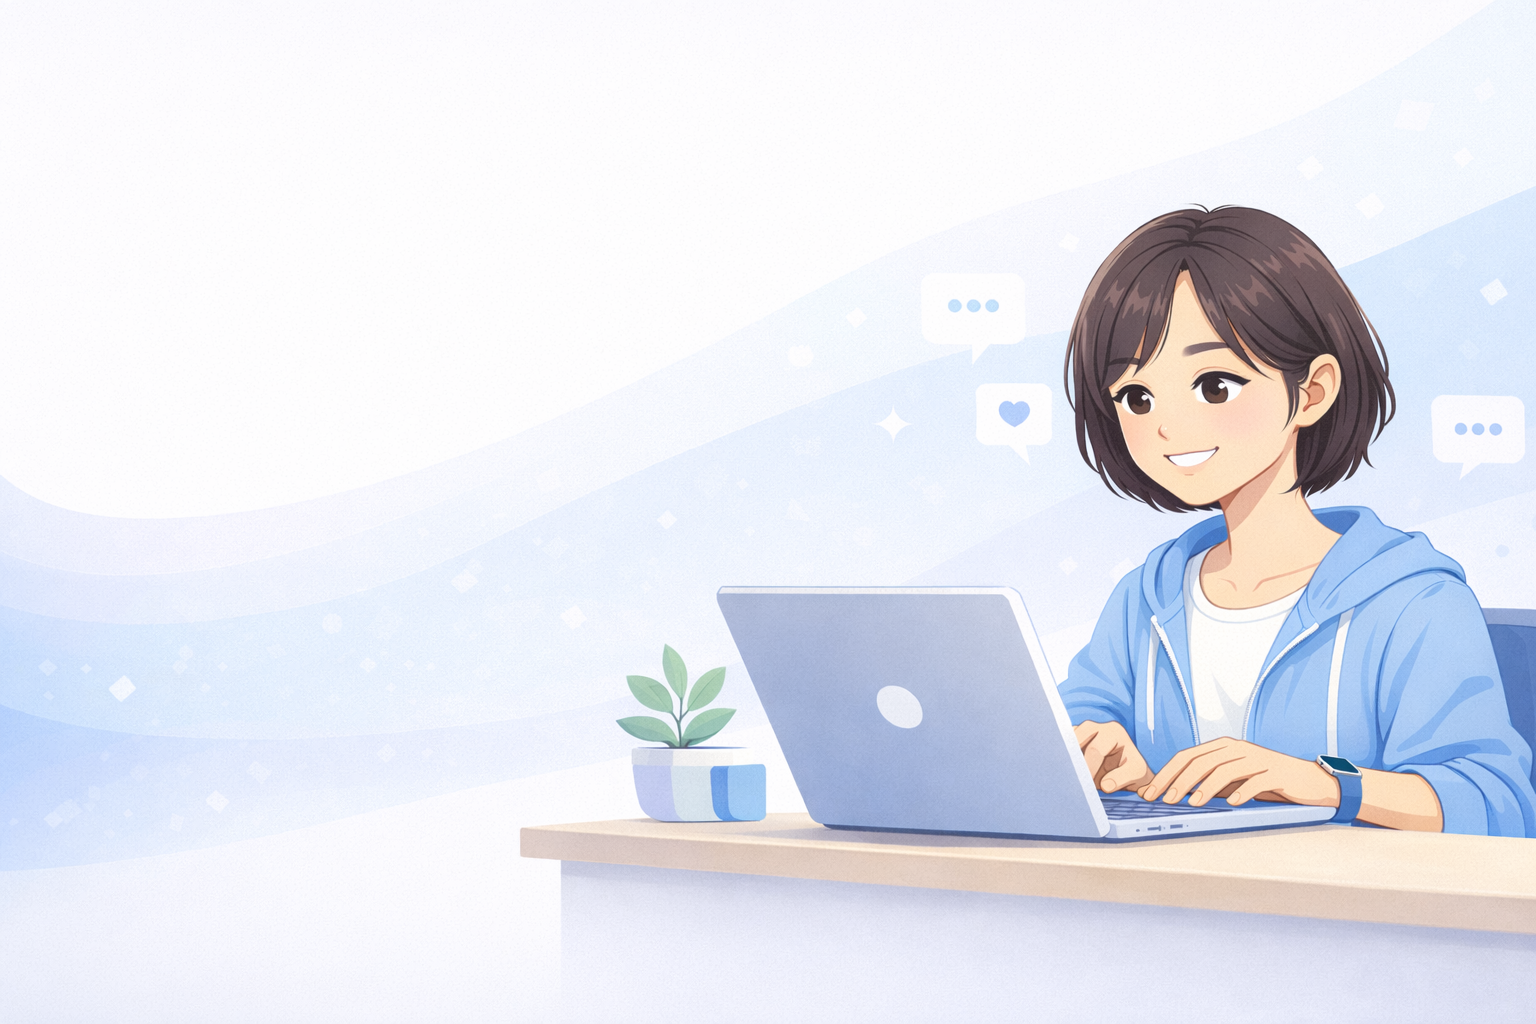
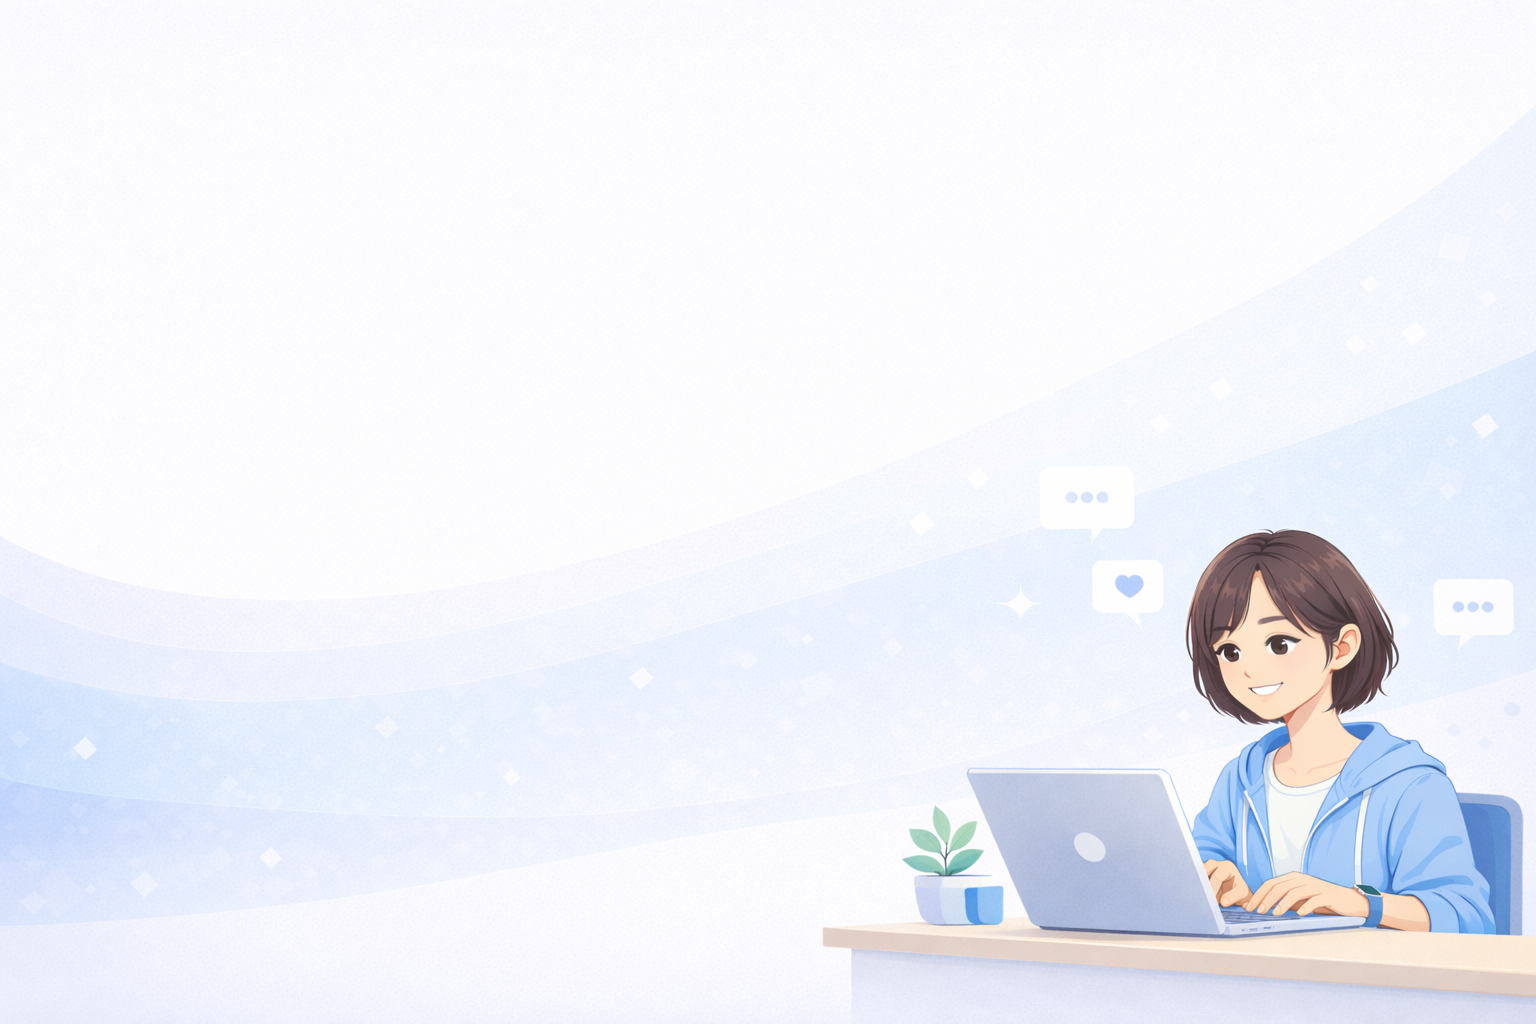
update

diff --git a/index.html b/index.html
@@ -16,7 +16,6 @@
 <body>
   <div class="page">
     <header class="hero" id="home">
-      <div class="hero-illustration" aria-hidden="true"></div>
       <nav class="nav">
         <div class="logo" data-site-text="logo">NY</div>
         <div class="nav-links">
@@ -55,33 +54,6 @@
             <div>
               <strong data-site-text="heroMetricThreeValue">12</strong>
               <span data-site-text="heroMetricThreeLabel">Product Launches</span>
-            </div>
-          </div>
-        </div>
-        <div class="hero-card">
-          <div class="profile">
-            <div class="avatar" data-site-text="heroAvatar">NY</div>
-            <div>
-              <p class="name" data-site-text="heroName">Niyu Tong</p>
-              <p class="role" data-site-text="heroRole">Design + Engineering</p>
-            </div>
-          </div>
-          <div class="card-grid">
-            <div class="mini-card">
-              <p data-site-text="heroMiniCardOneLabel">Design System</p>
-              <span data-site-text="heroMiniCardOneValue">2024</span>
-            </div>
-            <div class="mini-card">
-              <p data-site-text="heroMiniCardTwoLabel">Fintech App</p>
-              <span data-site-text="heroMiniCardTwoValue">Live</span>
-            </div>
-            <div class="mini-card">
-              <p data-site-text="heroMiniCardThreeLabel">Startup Brand</p>
-              <span data-site-text="heroMiniCardThreeValue">Phase 2</span>
-            </div>
-            <div class="mini-card">
-              <p data-site-text="heroMiniCardFourLabel">AI Studio</p>
-              <span data-site-text="heroMiniCardFourValue">Concept</span>
             </div>
           </div>
         </div>

diff --git a/styles.css b/styles.css
@@ -37,7 +37,8 @@ body {
 }
 
 .hero {
-  background: linear-gradient(140deg, #ffffff 0%, #edf3ff 55%, #dfe9ff 100%);
+  /* background: linear-gradient(140deg, #ffffff 0%, #edf3ff 55%, #dfe9ff 100%); */
+  background: url("images/hero.png") right bottom / cover no-repeat;
   border-radius: var(--radius-lg);
   box-shadow: var(--shadow);
   padding: 36px 42px 60px;
@@ -70,17 +71,6 @@ body {
   left: -120px;
 }
 
-.hero-illustration {
-  position: absolute;
-  top: 32px;
-  right: 32px;
-  width: 520px;
-  height: 320px;
-  background: url("images/hero.png") center / cover no-repeat;
-  border-radius: 36px;
-  opacity: 0.95;
-  z-index: 0;
-}
 
 .nav,
 .hero-content {
@@ -230,10 +220,10 @@ h1 {
 }
 
 .hero-card {
-  background: #fff;
-  padding: 24px;
-  border-radius: var(--radius);
-  box-shadow: var(--shadow);
+  background: transparent;
+  padding: 0;
+  border-radius: 0;
+  box-shadow: none;
   display: grid;
   gap: 24px;
 }
@@ -698,7 +688,8 @@ textarea:focus {
   .hero-illustration {
     width: 360px;
     height: 220px;
-    top: 140px;
+    top: auto;
+    bottom: 120px;
     right: 24px;
   }
 }
